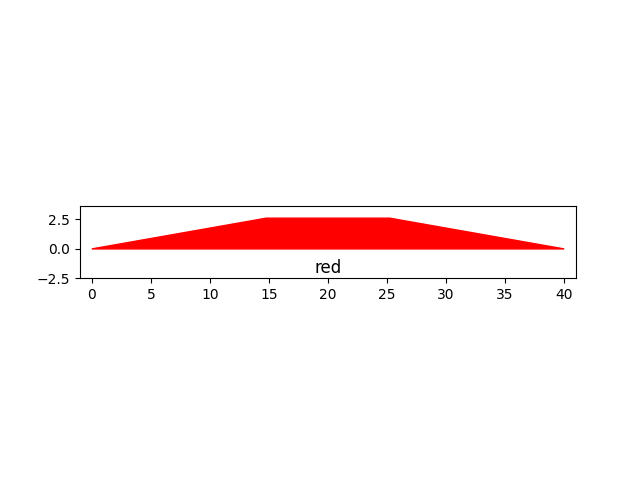
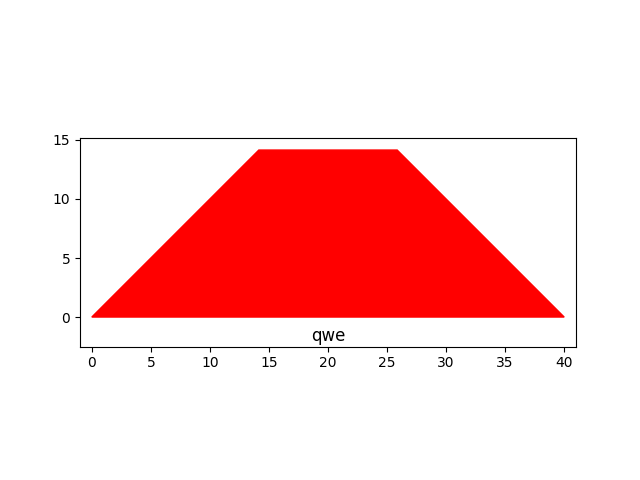
lab4 ended

diff --git a/IGI/LR4/task1/serializer.py b/IGI/LR4/task1/serializer.py
@@ -1,17 +1,18 @@
 import csv
 import pickle
 from task1.student import Student
+from abc import ABC, abstractmethod
 
-class Serializer:
+class Serializer(ABC):
     """Abstract base class for serializers."""
-    
+    @abstractmethod
     def save(self, students, filename):
         """Save students to a file."""
-        raise NotImplementedError("Subclasses must implement save()")
-
+        pass
+    @abstractmethod
     def load(self, filename):
         """Load students from a file."""
-        raise NotImplementedError("Subclasses must implement load()")
+        pass
 
 class CSVSerializer(Serializer):
     """Serializer for CSV format."""

diff --git a/IGI/LR4/task2.py b/IGI/LR4/task2.py
@@ -126,7 +126,7 @@ def main():
                 if archive_info:
                     print("\nСодержимое архива:")
                     for info in archive_info:
-                        print(f"  {info.filename} - {info.file_size} байт")
+                        print(f"  {info.filename} - {info.file_size} байт, Date: {info.date_time}, {info.compress_type}, {info.compress_size}")
         
         elif choice == "13":
             print("Выход из программы.")

diff --git a/IGI/LR4/task2/TextAnalyzer.py b/IGI/LR4/task2/TextAnalyzer.py
@@ -16,7 +16,7 @@ class TextAnalyzer:
     
     def _split_sentences(self):
         """Split the text into sentences using regular expressions."""
-        sentence_pattern = r'(?<!\w\.\w.)(?<![A-Z][a-z]\.)(?<=\.|\?|\!)\s'
+        sentence_pattern = r'(?<=[.!?])\s+'
         return [s.strip() for s in re.split(sentence_pattern, self.text) if s.strip()]
     
     def _split_words(self):

diff --git a/IGI/LR4/task5.py b/IGI/LR4/task5.py
@@ -4,7 +4,7 @@ from task4.utils import get_positive_int, continue_program
 
 def main():
     """Main function to run the matrix operations program."""
-    print("Welcome to the NumPy Matrix Operations Program (Lab 5)")
+    print("Welcome to the NumPy Matrix Operations Program")
     while True:
         try:
             # Get matrix dimensions from user
